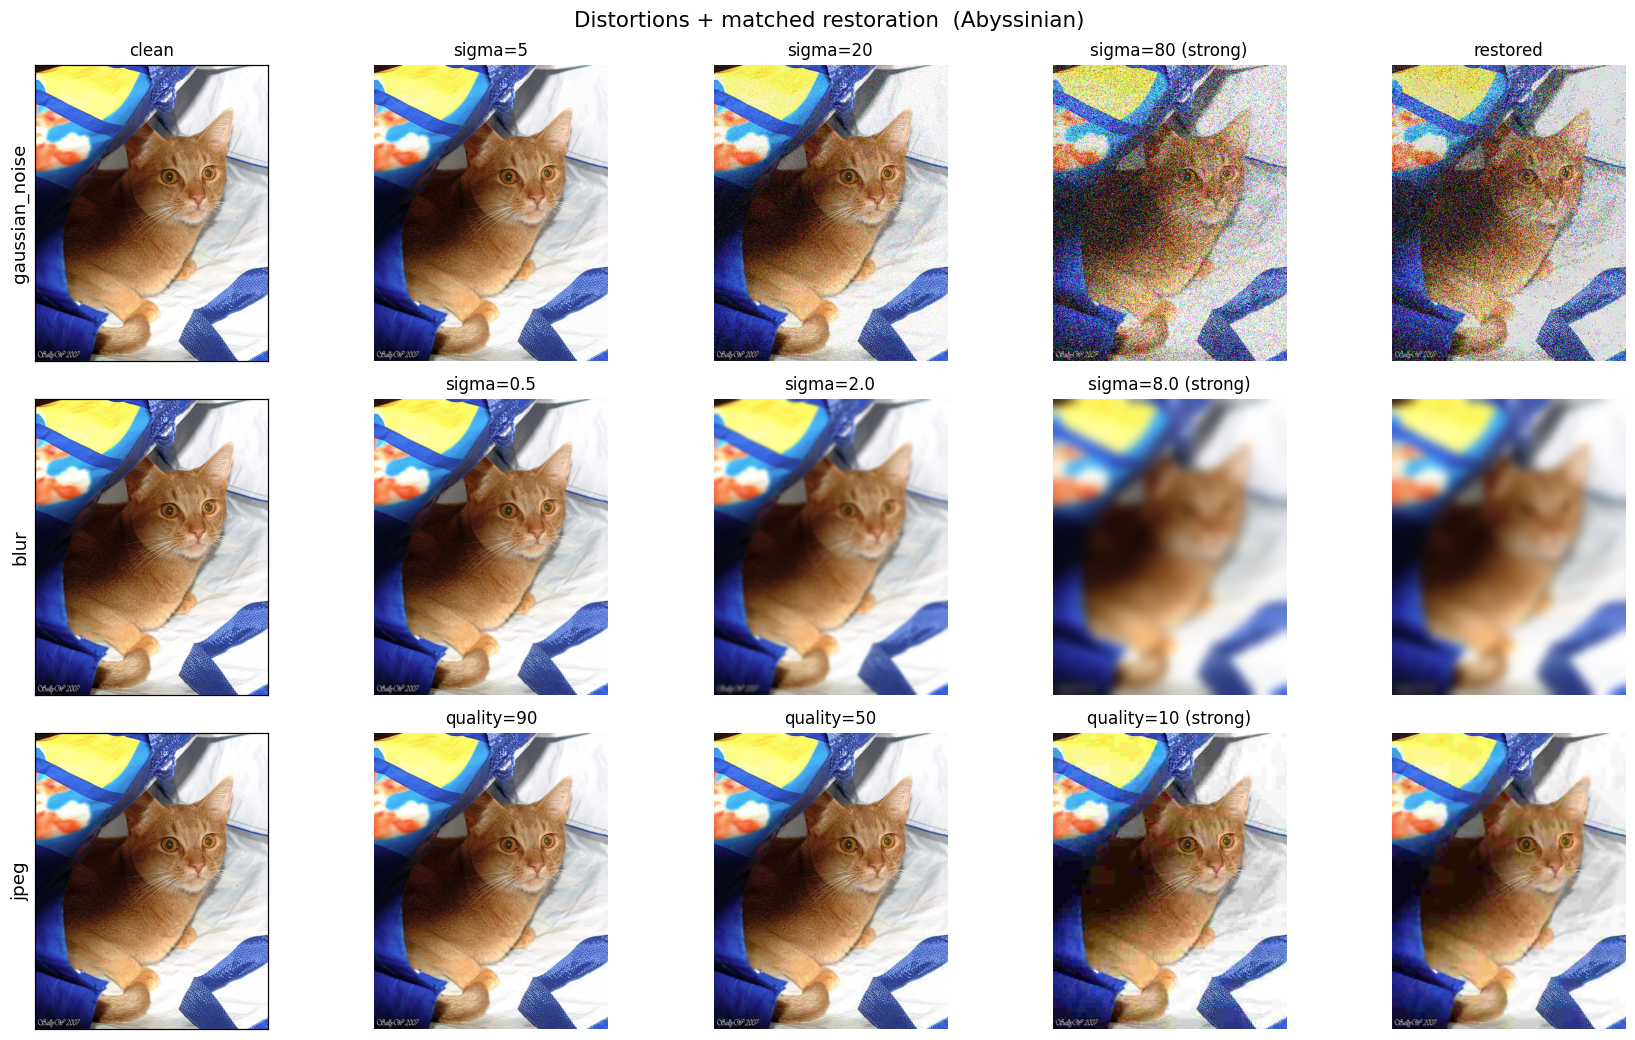
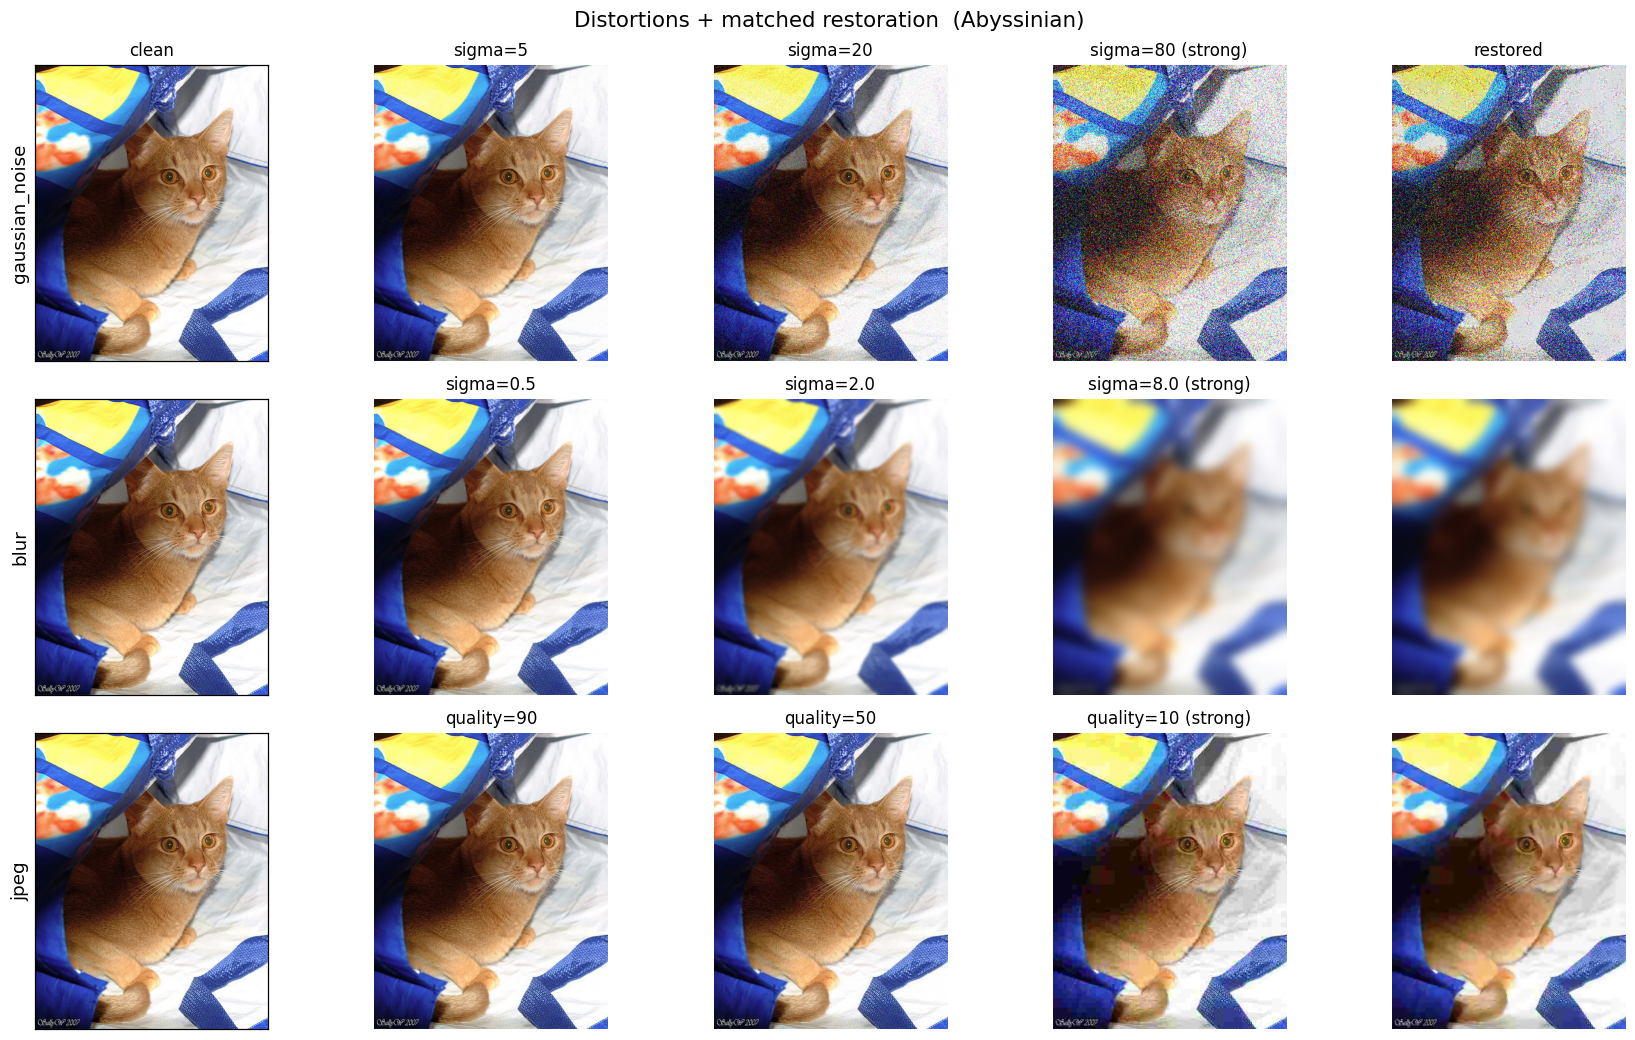
Finalize all results: Task-2, fine-tune comparison, corrected keypoint metric
- Task 3: regenerated with one-to-one repeatability + seeding (reproducible counts)
- Task 1: add fine-tuned column + curves + per-breed figure
- Task 2: full segmentation results (baseline mIoU 0.923) + fine-tune
- Discussion: headline result table — fine-tuning beats restoration at severe distortion
  (cls noise σ=80 0.24→0.75; seg 0.62→0.87); fixed the 0.75→0.63 factual error; q≥30→q≥50
- progress table: weeks 5–11 complete; slides updated with fine-tune numbers

diff --git a/README.md b/README.md
@@ -221,13 +221,13 @@ python scripts/run_segmentation.py    # Task 2 (MPS/GPU)
 | 2 | Dataset/distortions/tasks table with links | ✔ §1 |
 | 3 | Methods/enhancements table with links | ✔ §2 |
 | 4 | Download + EDA + annotated grid | ✔ §3, `scripts/eda.py` |
-| 5–6 | Run on clean data + measure (per class) | ✔ Task 3 · ✔ Task 1 baseline (Top-1 = 0.93) · ◻ Task 2 baseline |
+| 5–6 | Run on clean data + measure (per class) | ✔ all 3 tasks (cls 0.93, seg 0.92, SIFT) |
 | 7 | Apply distortions + before/after | ✔ `src/distortions`, grids |
-| 8 | Measure degradation | ✔ Task 3 · ✔ Task 1 · ◻ Task 2 |
-| 9 | Apply enhancements + measure | ✔ Task 3 · ✔ Task 1 · ◻ Task 2 |
-| 10–11 | Fine-tune + measure | ◻ in progress (improvement #2) |
+| 8 | Measure degradation | ✔ all 3 tasks |
+| 9 | Apply enhancements + measure | ✔ all 3 tasks |
+| 10–11 | Fine-tune + measure | ✔ classification + segmentation (improvement #2) |
 | 12 | Polish README (de-AI pass) | ◻ scheduled last |
-| 13 | PPT/PDF + final repo review | ◻ |
+| 13 | PPT/PDF + final repo review | ◻ (slide draft in `docs/SLIDES.md`) |
 
 ---
 
@@ -259,14 +259,16 @@ matched cleaner. Baseline (clean vs. clean) repeatability = 1.00.
 
 | Distortion | level | repeatability (distorted → restored) | Δ recovery | matching (distorted → restored) |
 |---|---|---|---|---|
-| noise (σ) | 5 | 0.81 → 0.30 | **−0.51** | 0.76 → 0.25 |
-| noise (σ) | 20 | 0.53 → 0.38 | −0.15 | 0.38 → 0.29 |
-| noise (σ) | 80 | 0.22 → 0.23 | +0.01 | 0.11 → 0.11 |
-| blur (σ) | 0.5 | 0.78 → **0.88** | +0.10 | 0.74 → 0.72 |
-| blur (σ) | 1.0 | 0.44 → **0.86** | **+0.42** | 0.35 → **0.72** |
+| noise (σ) | 5 | 0.74 → 0.26 | **−0.48** | 0.74 → 0.25 |
+| noise (σ) | 20 | 0.46 → 0.37 | −0.09 | 0.35 → 0.30 |
+| noise (σ) | 80 | 0.21 → 0.21 | 0.00 | 0.10 → 0.11 |
+| blur (σ) | 0.5 | 0.74 → **0.83** | +0.08 | 0.74 → 0.72 |
+| blur (σ) | 1.0 | 0.38 → **0.80** | **+0.42** | 0.35 → **0.72** |
 | blur (σ) | 8.0 | 0.01 → 0.02 | +0.01 | 0.03 → 0.03 |
-| jpeg (q) | 90 | 0.86 → 0.49 | −0.37 | 0.84 → 0.42 |
-| jpeg (q) | 10 | 0.62 → 0.45 | −0.17 | 0.32 → 0.27 |
+| jpeg (q) | 90 | 0.83 → 0.45 | −0.38 | 0.84 → 0.42 |
+| jpeg (q) | 10 | 0.54 → 0.39 | −0.15 | 0.32 → 0.27 |
+
+*Repeatability uses one-to-one keypoint matching (τ = 3 px); seeded run.*
 
 <p>
 <img src="assets/keypoints_gaussian_noise.png" width="32%">
@@ -277,13 +279,13 @@ matched cleaner. Baseline (clean vs. clean) repeatability = 1.00.
 *Repeatability vs. intensity for noise / blur / JPEG; each plot shows distorted vs. restored.*
 
 Keypoints drawn on the image (`scripts/keypoints_viz.py`): **blur** erases them (559 → 21),
-while **noise** and **JPEG** spawn *spurious* unstable ones (559 → 633 / 678) — which is why
+while **noise** and **JPEG** spawn *spurious* unstable ones (559 → 661 / 678) — which is why
 both repeatability and matching collapse.
 
 ![Keypoint visualization](assets/keypoints_visual.png)
 
 **Key finding:** the matched cleaner helps only for **blur** (deblur restores repeatability from
-0.44 → 0.86 at σ=1). For **noise** and **JPEG**, classical cleaners (NLM, bilateral) *hurt*
+0.38 → 0.80 at σ=1). For **noise** and **JPEG**, classical cleaners (NLM, bilateral) *hurt*
 SIFT — they smooth away the fine texture keypoints sit on. Blind enhancement is not free for
 low-level feature tasks; it trades pixel-level fidelity for lost structure.
 
@@ -292,35 +294,63 @@ low-level feature tasks; it trades pixel-level fidelity for lost structure.
 Baseline (clean) Top-1 = **0.933** on 300 held-out val images (fine-tuned 5 epochs on 1,200
 clean images, Apple MPS).
 
-| Distortion | level | Top-1 (distorted → restored) | Δ recovery |
-|---|---|---|---|
-| noise (σ) | 5 | 0.93 → 0.70 | **−0.23** |
-| noise (σ) | 20 | 0.86 → 0.72 | −0.14 |
-| noise (σ) | 80 | 0.22 → 0.24 | +0.02 |
-| blur (σ) | 1.0 | 0.90 → 0.87 | −0.03 |
-| blur (σ) | 4.0 | 0.44 → **0.50** | +0.06 |
-| jpeg (q) | 50 | 0.90 → 0.87 | −0.03 |
-| jpeg (q) | 10 | 0.64 → 0.64 | 0.00 |
+Top-1 accuracy under each strategy (distorted vs. restored vs. fine-tuned on distorted data):
+
+| Distortion | level | distorted | restored | fine-tuned |
+|---|---|---|---|---|
+| noise (σ) | 5 | 0.93 | 0.70 | 0.90 |
+| noise (σ) | 20 | 0.86 | 0.72 | 0.90 |
+| noise (σ) | 80 | 0.22 | 0.24 | **0.75** |
+| blur (σ) | 1.0 | 0.90 | 0.87 | 0.90 |
+| blur (σ) | 4.0 | 0.44 | 0.50 | **0.79** |
+| jpeg (q) | 50 | 0.90 | 0.87 | 0.91 |
+| jpeg (q) | 10 | 0.64 | 0.64 | **0.82** |
 
 <p>
-<img src="assets/classification_gaussian_noise.png" width="32%">
-<img src="assets/classification_blur.png" width="32%">
-<img src="assets/classification_jpeg.png" width="32%">
+<img src="assets/classification_finetune_gaussian_noise.png" width="32%">
+<img src="assets/classification_finetune_blur.png" width="32%">
+<img src="assets/classification_finetune_jpeg.png" width="32%">
 </p>
 
-*Top-1 accuracy vs. intensity for noise / blur / JPEG; clean baseline, distorted, and restored.*
+*Top-1 vs. intensity for noise / blur / JPEG: distorted, restored, and fine-tuned.*
 
 **Findings.** (1) ResNet-50 is **robust to mild distortion** — accuracy barely moves for noise σ≤20,
-blur σ≤1, or JPEG q≥30, and collapses only at strong levels. (2) Blind classical restoration
-**mostly hurts**: NLM denoising drops σ=5 accuracy 0.93→0.70 (it erases the texture the model reads),
-and bilateral de-JPEG gives nothing back; only deblurring helps, and only at strong blur (σ=4:
-0.44→0.50). This matches the keypoints result — *enhancement tuned for human-visible quality is
-not tuned for the model.* Per-breed accuracy is in `results/classification_per_class.csv`
-(`assets/classification_per_class.png`).
+blur σ≤1, or JPEG q≥50, and collapses only at strong levels. (2) Blind classical restoration
+**mostly hurts**: NLM denoising drops σ=5 accuracy 0.93→0.70, and de-JPEG gives nothing back;
+only deblurring helps, and only at strong blur. (3) **Fine-tuning is decisively the best recovery**:
+at the worst levels it recovers what restoration cannot — noise σ=80 **0.22→0.75**, blur σ=8
+0.13→0.59, JPEG q=10 0.64→0.82.
+
+Per-breed accuracy (worst: Birman 0.62, best: Abyssinian 1.00):
+
+![Per-breed accuracy](assets/classification_per_class.png)
 
 ### Task 2 — DeepLabV3 segmentation (high-level, DL)
 
-_Filling in from the GPU batch (baseline mIoU ≈ 0.92 on the quick verify; full numbers + curves pending)._
+Baseline (clean) mIoU = **0.923** on 300 val images (fine-tuned 5 epochs on 1,200 clean images).
+
+| Distortion | level | distorted | restored | fine-tuned |
+|---|---|---|---|---|
+| noise (σ) | 5 | 0.923 | 0.901 | 0.912 |
+| noise (σ) | 20 | 0.906 | 0.896 | 0.907 |
+| noise (σ) | 80 | 0.627 | 0.621 | **0.865** |
+| blur (σ) | 1.0 | 0.916 | 0.921 | 0.910 |
+| blur (σ) | 8.0 | 0.791 | 0.799 | **0.833** |
+| jpeg (q) | 50 | 0.922 | 0.918 | 0.912 |
+| jpeg (q) | 10 | 0.847 | 0.873 | **0.891** |
+
+<p>
+<img src="assets/segmentation_gaussian_noise.png" width="32%">
+<img src="assets/segmentation_blur.png" width="32%">
+<img src="assets/segmentation_jpeg.png" width="32%">
+</p>
+
+*mIoU vs. intensity for noise / blur / JPEG; clean baseline, distorted, and restored.*
+
+**Findings.** Segmentation is the **most robust** task: mIoU holds ≥0.85 until the strongest
+levels and only noise σ=80 causes a large drop (0.923→0.627). Restoration is **roughly neutral**
+(small help at strong blur/JPEG, small harm at mild noise). **Fine-tuning again wins where it
+matters most** — noise σ=80 0.627→**0.865**, blur σ=8 0.791→0.833, JPEG q=10 0.847→0.891.
 
 ---
 
@@ -328,17 +358,29 @@ _Filling in from the GPU batch (baseline mIoU ≈ 0.92 on the quick verify; full
 
 **Robustness diverges with abstraction level.** Across the same distortions, fragility ranks
 SIFT keypoints (most fragile) → classification → segmentation (most robust). Fine local structure
-is destroyed first; region/shape labels survive far longer. Noise σ=80 takes SIFT repeatability to
-0.22 and ResNet-50 to 0.22 Top-1, while segmentation mIoU stays ≈0.75 — dense context is resilient.
+is destroyed first; region/shape labels survive longest. At noise σ=80, SIFT repeatability falls to
+0.21 and ResNet-50 to 0.22 Top-1, while segmentation mIoU — though it too drops — holds at 0.63.
 
 **Blind classical restoration is not free.** The Δ-recovery columns make this concrete: the matched
 cleaner helps only for **blur** (deblur re-adds attenuated high frequencies — repeatability +0.42 at
 σ=1). For **noise** and **JPEG**, NLM and bilateral filtering *smooth away* the exact detail the
-downstream task relies on, so recovery is often **negative** (SIFT −0.51 at σ=5; ResNet-50 −0.23 at
+downstream task relies on, so recovery is often **negative** (SIFT −0.48 at σ=5; ResNet-50 −0.23 at
 σ=5). Enhancement tuned for human-visible quality is not tuned for the algorithm consuming it.
 
-**Restoration vs. fine-tuning.** _Pending the fine-tune batch — we will report, per task and
-distortion, whether adapting the model beats cleaning the image, and where each strategy wins._
+**Restoration vs. fine-tuning — the headline result.** Fine-tuning the model on distorted data
+**beats restoration decisively**, and the gap is largest exactly where restoration fails — the
+strongest distortions:
 
-**Practical takeaway.** Match the recovery method to the *consumer*. Where classical restoration
-is harmful (noise, JPEG for feature/recognition tasks), model adaptation is the more promising lever.
+| Strongest level | distorted | restored | fine-tuned |
+|---|---|---|---|
+| Classification, noise σ=80 | 0.22 | 0.24 | **0.75** |
+| Classification, blur σ=8 | 0.13 | 0.13 | **0.59** |
+| Classification, JPEG q=10 | 0.64 | 0.64 | **0.82** |
+| Segmentation, noise σ=80 | 0.63 | 0.62 | **0.87** |
+
+At mild distortion the model is already robust so all three agree; at severe distortion restoration
+adds nothing while fine-tuning recovers most of the loss.
+
+**Practical takeaway.** Match the recovery method to the *consumer*. Blind classical enhancement
+tuned for the human eye can *hurt* the algorithm; **adapting the model** is the more reliable lever,
+especially under severe degradation.

diff --git a/docs/SLIDES.md b/docs/SLIDES.md
@@ -46,19 +46,20 @@ For each (task × distortion): **Baseline (clean) → Distorted (sweep) → Rest
 
 ## Slide 8 — Task 1: ResNet-50 classification (high-level)
 - Baseline Top-1 = 0.933. Robust to mild distortion; collapses only at strong levels.
-- Restoration mostly hurts (denoise 0.93→0.70 at σ=5); deblur helps at strong blur.
-- Fine-tune on distorted: _(pending — improvement #2)_.
-- Figures: `assets/classification_*.png`
+- Restoration mostly hurts (denoise 0.93→0.70 at σ=5); deblur helps only at strong blur.
+- **Fine-tune wins big**: noise σ=80 0.22→0.75, blur σ=8 0.13→0.59, JPEG q=10 0.64→0.82.
+- Figures: `assets/classification_finetune_*.png`, `assets/classification_per_class.png`
 
 ## Slide 9 — Task 2: DeepLabV3 segmentation (high-level)
-- Baseline mIoU ≈ 0.92. **More robust than classification** — shape survives better than texture.
+- Baseline mIoU = 0.923. **Most robust task** — shape survives better than texture.
 - Restoration roughly neutral; small help at strong blur/JPEG.
-- Fine-tune on distorted: _(pending — improvement #2)_.
+- **Fine-tune wins at severe levels**: noise σ=80 0.63→0.87, blur σ=8 0.79→0.83.
 
 ## Slide 10 — Cross-cutting finding
 - **Blind classical enhancement is not free.** Tuned for human-visible quality, it removes
   the fine detail models and detectors rely on → often *lowers* task performance.
-- **Fine-tuning vs restoration:** _(fill: which recovers more, per task/distortion)_.
+- **Fine-tuning beats restoration decisively**, and the gap is largest at the strongest
+  distortions (where restoration adds nothing): classification noise σ=80 0.24 vs **0.75**.
 
 ## Slide 11 — Conclusions
 - Robustness is task-dependent: dense/high-level (segmentation) > recognition > low-level features.